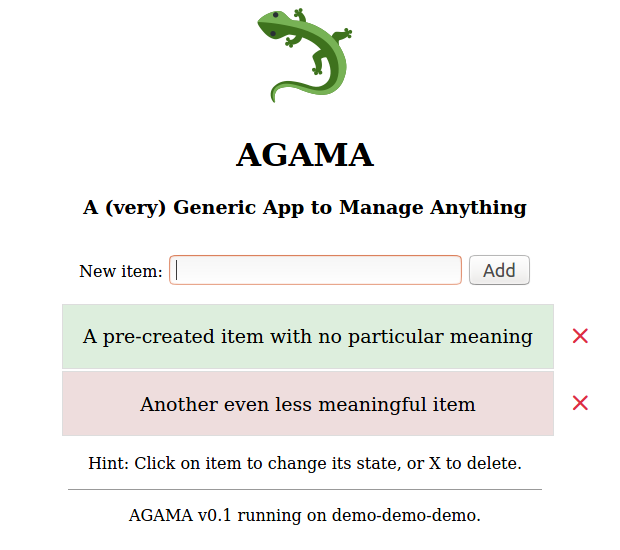
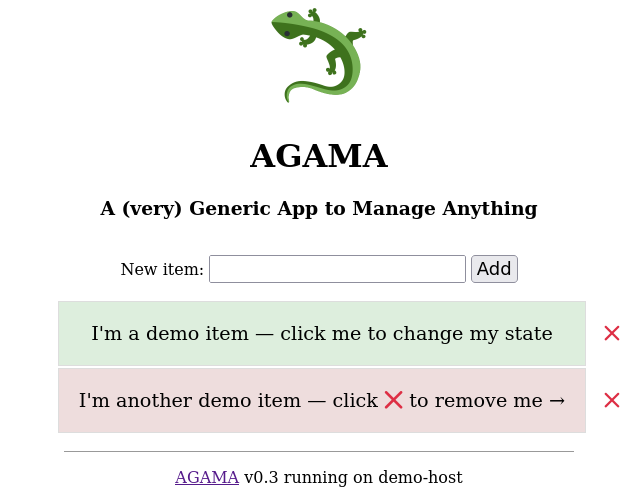
Improve AGAMA
- Check connection before every request, re-initialize if needed
 - Add HTML auto refresh
 - Update demo item set
 - Fix HTML tags

diff --git a/agama.py b/agama.py
@@ -41,6 +41,18 @@ class Item(db.Model):
     state = db.Column(db.Integer, default=0)
 
 
+@app.before_request
+def before_request():
+    try:
+        with db.engine.connect() as conn:
+            if not inspect(conn).has_table(Item.__tablename__):
+                init_db()
+    except Exception:
+        db.session.remove()
+        db.engine.dispose()
+        init_db()
+
+
 @app.route('/')
 def index():
     return html_render(items=Item.query.all())
@@ -98,6 +110,7 @@ def html_render(items=[]):
     return Environment(autoescape=True).from_string("""<!DOCTYPE html>
 <html>
     <head>
+        <meta http-equiv="refresh" content="30">
         <title>AGAMA</title>
         <style>
             a.delete { text-decoration: none; }
@@ -155,30 +168,24 @@ def html_render(items=[]):
 {% for item in items %}
             <tr class="item-{{ item['state'] }}">
                 <td class="item"><a href="/items/{{ item['id'] }}/swap-state">{{ item['value'] }}</a></td>
-                <td class="actions"><a class="delete" href="/items/{{ item['id'] }}/delete">❌</a</td>
+                <td class="actions"><a class="delete" href="/items/{{ item['id'] }}/delete">❌</a></td>
             </tr>
 {% endfor %}
         </table>
-        <p>Hint: Click on item to change its state, or X to delete.</p>
         <p class="footer">
-            AGAMA v0.2 running on {{ host }} |
-            <a href="https://github.com/hudolejev/agama">GitHub</a>
+            <a href="https://github.com/hudolejev/agama">AGAMA</a> v0.3 running on {{ host }}
         </p>
     <body>
 </html>""").render(host=os.uname()[1], items=items)
 
 
 def init_db():
+    app.logger.info('Initializing the database...')
     db.create_all()
-    db.session.add(Item(value='A pre-created item with no particular meaning', state=1))
-    db.session.add(Item(value='Another even less meaningful item'))
+    db.session.add(Item(value="I'm a demo item — click me to change my state", state=1))
+    db.session.add(Item(value="I'm another demo item — click ❌ to remove me →"))
     db.session.commit()
 
-
-with app.app_context():
-    if not inspect(db.engine).has_table(Item.__tablename__):
-        app.logger.info('Initializing the database...')
-        init_db()
 
 if __name__ == '__main__':
     app.run()
